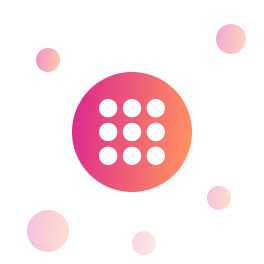
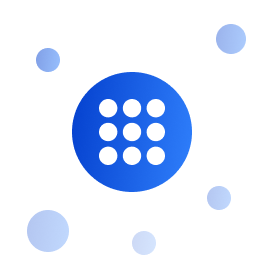
cc page wip

diff --git a/pages/features/contact-center.js b/pages/features/contact-center.js
@@ -14,10 +14,17 @@ export default function ContactCenterPage({ toggleDemoForm }) {
         copy={[
           "Built from the ground up with cutting edge Internet technologies, Samespace unites your business communication in one place, from anywhere.",
         ]}
-        textAlignment="center"
-        columns="one"
-        verticalPadding="py-28"
+        verticalPadding="py-14"
         callToActions={<Button title="Get a demo" size="large" />}
+        media={
+          <Image
+            src="/features/callcenter-hero.png"
+            width={520}
+            height={520}
+            priority
+            alt="Samespace Contact Center Platform"
+          />
+        }
       />
       <LogoWall />
       <Section
@@ -33,6 +40,15 @@ export default function ContactCenterPage({ toggleDemoForm }) {
         copy={[
           "Whether you use our Contact Center Suite or your existing solution, Samespace AI agents can offload up to 60 % of tier 1 conversations. So your live agents are open for more valuable conversations.",
         ]}
+        media={
+          <Image
+            src="/features/ai-with-other-callcenter.png"
+            width={520}
+            height={520}
+            quality={100}
+            alt="AI agents for any contact center solution"
+          />
+        }
       />
       <Section
         headline={["Integrate with all your apps."]}
@@ -40,12 +56,30 @@ export default function ContactCenterPage({ toggleDemoForm }) {
         copy={[
           "Many of our customers have existing CRM solutions, like Salesforce or HubSpot. We turn all of them into world-class contact center tools with off-the-shelf CTI integration, rapid custom integration using Samespace Studio, and adaptable open APIs.",
         ]}
+        media={
+          <Image
+            src="/features/crm-integrations.png"
+            width={520}
+            height={520}
+            quality={100}
+            alt="Integrate with your CRM"
+          />
+        }
       />
       <Section
         headline={["Live Monitoring and coaching"]}
         copy={[
           "Imagine every call handled by a top performer. We will help you get there with innovative analytics, monitoring & coaching features that allow managers and experienced agents to easily coach colleagues in real time.",
         ]}
+        media={
+          <Image
+            src="/features/live-monitoring-and-coaching.png"
+            width={520}
+            height={520}
+            quality={100}
+            alt="Live monitoring and coaching"
+          />
+        }
       />
       <Section
         headline={["Web Chat & Web Call"]}

diff --git a/pages/features/developers.js b/pages/features/developers.js
@@ -10,7 +10,7 @@ export default function DevelopersPage({ toggleDemoForm }) {
       <Section
         headline={[
           <>
-            <span className="bg-clip-text text-transparent bg-gradient bg-gradient-to-r from-rose-600 to-amber-600">
+            <span className="bg-clip-text text-transparent bg-gradient bg-gradient-to-r from-accent to-indigo-500">
               Advanced
             </span>{" "}
             <span>Communication APIs</span>

diff --git a/tailwind.config.js b/tailwind.config.js
@@ -28,7 +28,8 @@ module.exports = {
         },
       },
       colors: {
-        accent: "#ff2753",
+        accent: "#006aff",
+        // accent: "#ff2753",
         gray: colors.trueGray,
         amber: colors.amber,
         rose: colors.rose,
